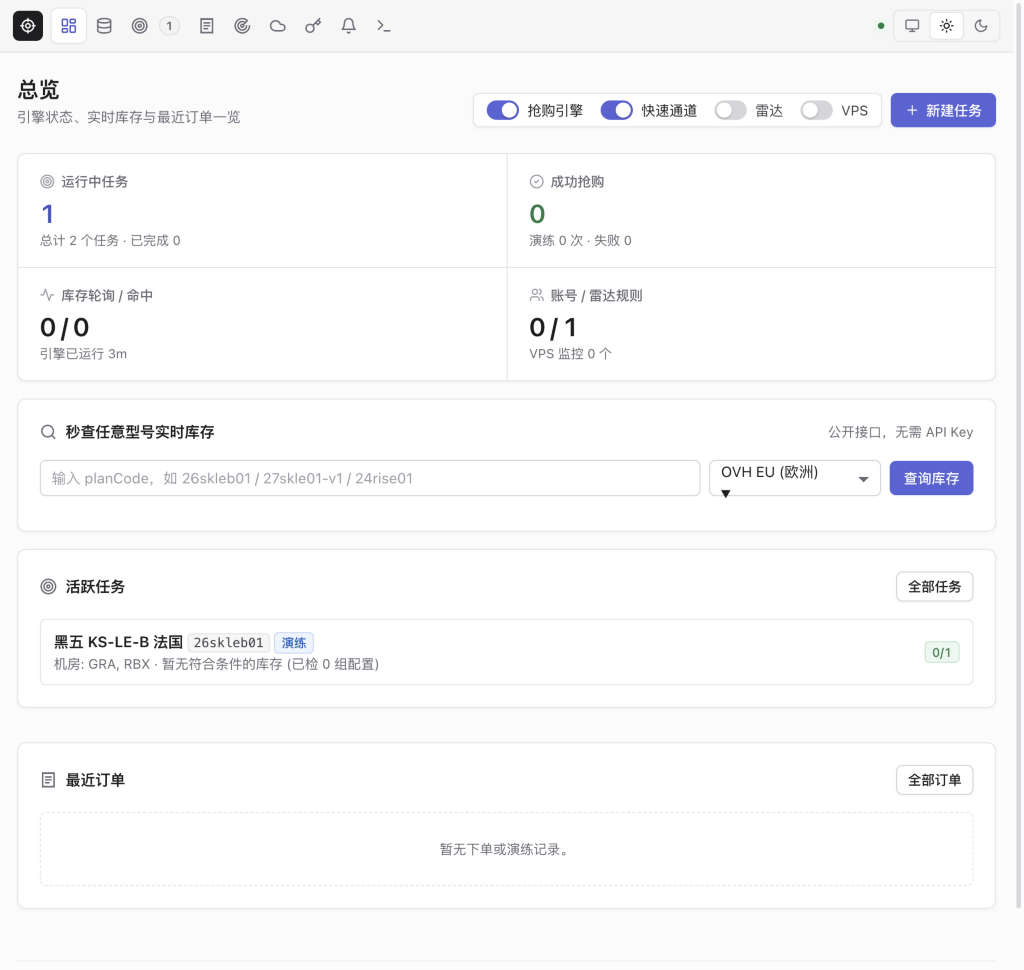
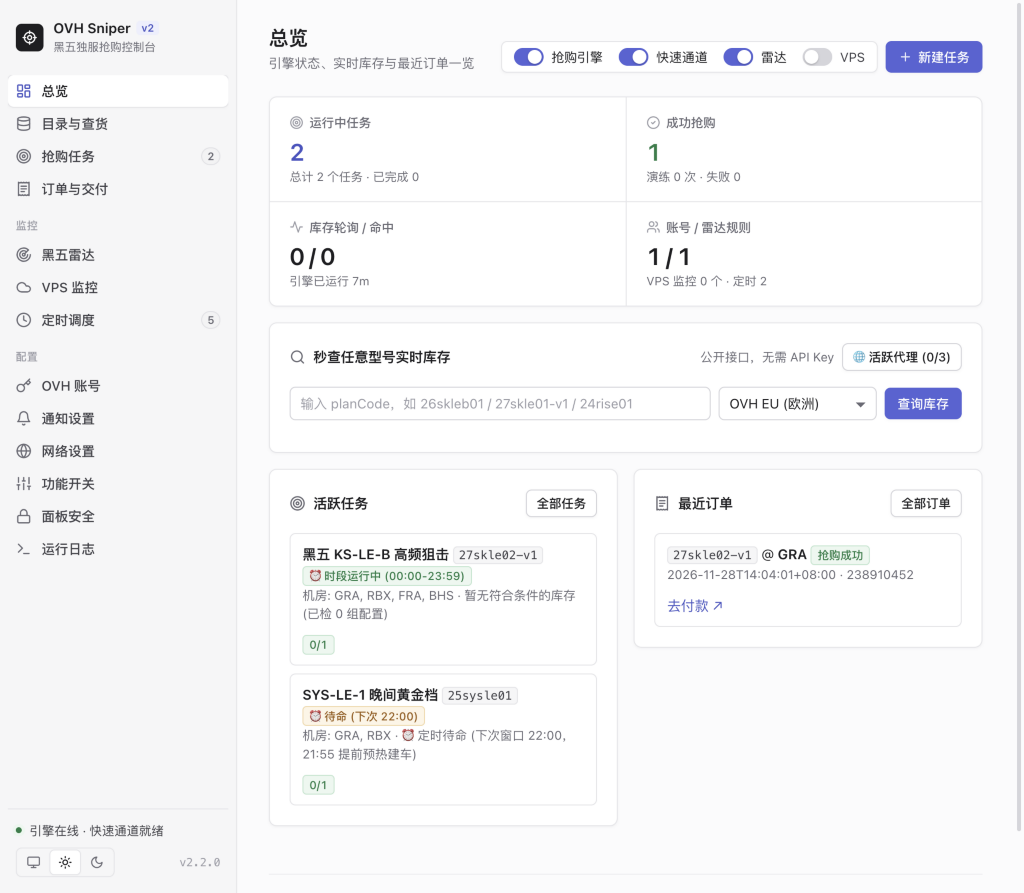
docs(readme,ci,ui): refresh v2.2 UI screenshots, bilingual templates & fix Python 3.9 CI runner

diff --git a/ovh_buyer/web/style.css b/ovh_buyer/web/style.css
@@ -478,7 +478,7 @@ input[type="checkbox"]:focus-visible { outline: none; box-shadow: 0 0 0 3px var(
 .hidden { display: none !important; }
 .modal {
   width: 100%; max-width: 560px; max-height: 92vh; overflow-y: auto;
-  padding: var(--s5) var(--s6) 0;
+  padding: 0 var(--s6);
   background: var(--surface);
   border-radius: var(--r-xl);
   box-shadow: var(--shadow-pop);
@@ -486,15 +486,15 @@ input[type="checkbox"]:focus-visible { outline: none; box-shadow: 0 0 0 3px var(
 .modal-sm { max-width: 400px; }
 .modal-lg { max-width: 780px; }
 .modal-header {
-  position: sticky; top: 0; z-index: 2;
+  position: sticky; top: 0; z-index: 5;
   display: flex; align-items: center; justify-content: space-between;
-  margin: calc(-1 * var(--s5)) calc(-1 * var(--s6)) var(--s4);
+  margin: 0 calc(-1 * var(--s6)) var(--s4);
   padding: var(--s4) var(--s6);
   background: var(--surface); border-bottom: 1px solid var(--divider);
 }
 .modal-header h3 { font-size: 16px; font-weight: 600; }
 .modal-footer {
-  position: sticky; bottom: 0;
+  position: sticky; bottom: 0; z-index: 5;
   display: flex; justify-content: flex-end; gap: var(--s2);
   margin: var(--s4) calc(-1 * var(--s6)) 0;
   padding: var(--s3) var(--s6);

diff --git a/ovh_buyer/database.py b/ovh_buyer/database.py
@@ -390,6 +390,7 @@ class Database:
             "telegram_topic_id": os.environ.get("TELEGRAM_TOPIC_ID", ""),
             "telegram_admin_ids": os.environ.get("TELEGRAM_ADMIN_IDS", ""),
             "telegram_proxy": os.environ.get("TELEGRAM_PROXY", ""),
+            "schedule_timezone": os.environ.get("SCHEDULE_TIMEZONE") or os.environ.get("TZ") or "",
             "bark_url": os.environ.get("BARK_URL", ""),
             "serverchan_key": os.environ.get("SERVERCHAN_KEY", ""),
             "dingtalk_webhook": os.environ.get("DINGTALK_WEBHOOK", ""),

diff --git a/README.md b/README.md
@@ -19,9 +19,11 @@ An automated server sniper, restock radar, and delivery tracker built for **OVHc
 
 See [CHANGELOG.md](CHANGELOG.md) for the complete release history.
 
-| Dark Theme | Light Theme |
+| Dark Theme (Overview) | Light Theme (Overview) |
 | :---: | :---: |
 | ![OVH Sniper Console · Dark](docs/screenshots/dashboard-dark.png) | ![OVH Sniper Console · Light](docs/screenshots/dashboard-light.png) |
+| **Two-Tier Schedule Center (`Schedules`)** | **Item-Level Schedule & Fast Lane Pre-Warmup** |
+| ![OVH Sniper · Schedules](docs/screenshots/schedules.png) | ![OVH Sniper · Task Schedule Modal](docs/screenshots/task-modal.png) |
 
 ---
 
@@ -273,7 +275,7 @@ See [.env.example](.env.example) for a complete template:
 | :--- | :--- | :--- |
 | `OVH_IMAGE` | `ghcr.io/atomboyc/ovh-buyer:latest` | Docker image (`atomboyc/ovh-buyer:latest` or `:2.2.0`) |
 | `PORT` / `HOST` | `8888` / `0.0.0.0` | HTTP listen port and bind address |
-| `TZ` | `Asia/Shanghai` | Default container & scheduler timezone |
+| `TZ` / `SCHEDULE_TIMEZONE` | `Asia/Shanghai` | Default container & scheduler timezone (`Europe/Paris`, `America/New_York`, `UTC`, etc.) |
 | `PANEL_PASSWORD` | *(empty)* | Web Console login password & `X-API-Key` secret (**set on public servers!**) |
 | `DATA_ENCRYPTION_KEY` | *(empty)* | Optional at-rest encryption key for OVH secrets, proxy passwords, and webhook tokens |
 | `OVH_DATA_DIR` | `./data` | SQLite database and catalog cache directory |

diff --git a/README.zh-CN.md b/README.zh-CN.md
@@ -19,9 +19,11 @@
 
 完整英文变更日志见 [CHANGELOG.md](CHANGELOG.md)。
 
-| 深色主题 | 浅色主题 |
+| 深色主题（总览） | 浅色主题（总览） |
 | :---: | :---: |
 | ![OVH Sniper 控制台 · 深色](docs/screenshots/dashboard-dark.png) | ![OVH Sniper 控制台 · 浅色](docs/screenshots/dashboard-light.png) |
+| **双层定时调度中心（`定时调度`）** | **单任务跨零点活跃窗口 & 快速通道预热** |
+| ![OVH Sniper · 定时调度中心](docs/screenshots/schedules.png) | ![OVH Sniper · 任务定时配置弹窗](docs/screenshots/task-modal.png) |
 
 ---
 
@@ -269,7 +271,7 @@ docker compose up -d
 | :--- | :--- | :--- |
 | `OVH_IMAGE` | `ghcr.io/atomboyc/ovh-buyer:latest` | Compose 镜像（可改为 `atomboyc/ovh-buyer:latest` 或 `:2.2.0`） |
 | `PORT` / `HOST` | `8888` / `0.0.0.0` | Web 监听端口与地址 |
-| `TZ` | `Asia/Shanghai` | 容器与定时调度默认时区 |
+| `TZ` / `SCHEDULE_TIMEZONE` | `Asia/Shanghai` | 容器与定时调度默认基准时区（如 `Europe/Paris`、`America/New_York`、`UTC`） |
 | `PANEL_PASSWORD` | 空 | 面板登录密码与 `X-API-Key` 密钥（**公网部署务必设置**） |
 | `DATA_ENCRYPTION_KEY` | 空 | 可选，OVH 密钥、代理密码与通知 Token 静态加密密钥 |
 | `OVH_DATA_DIR` | `./data` | SQLite 数据库与目录缓存路径 |
